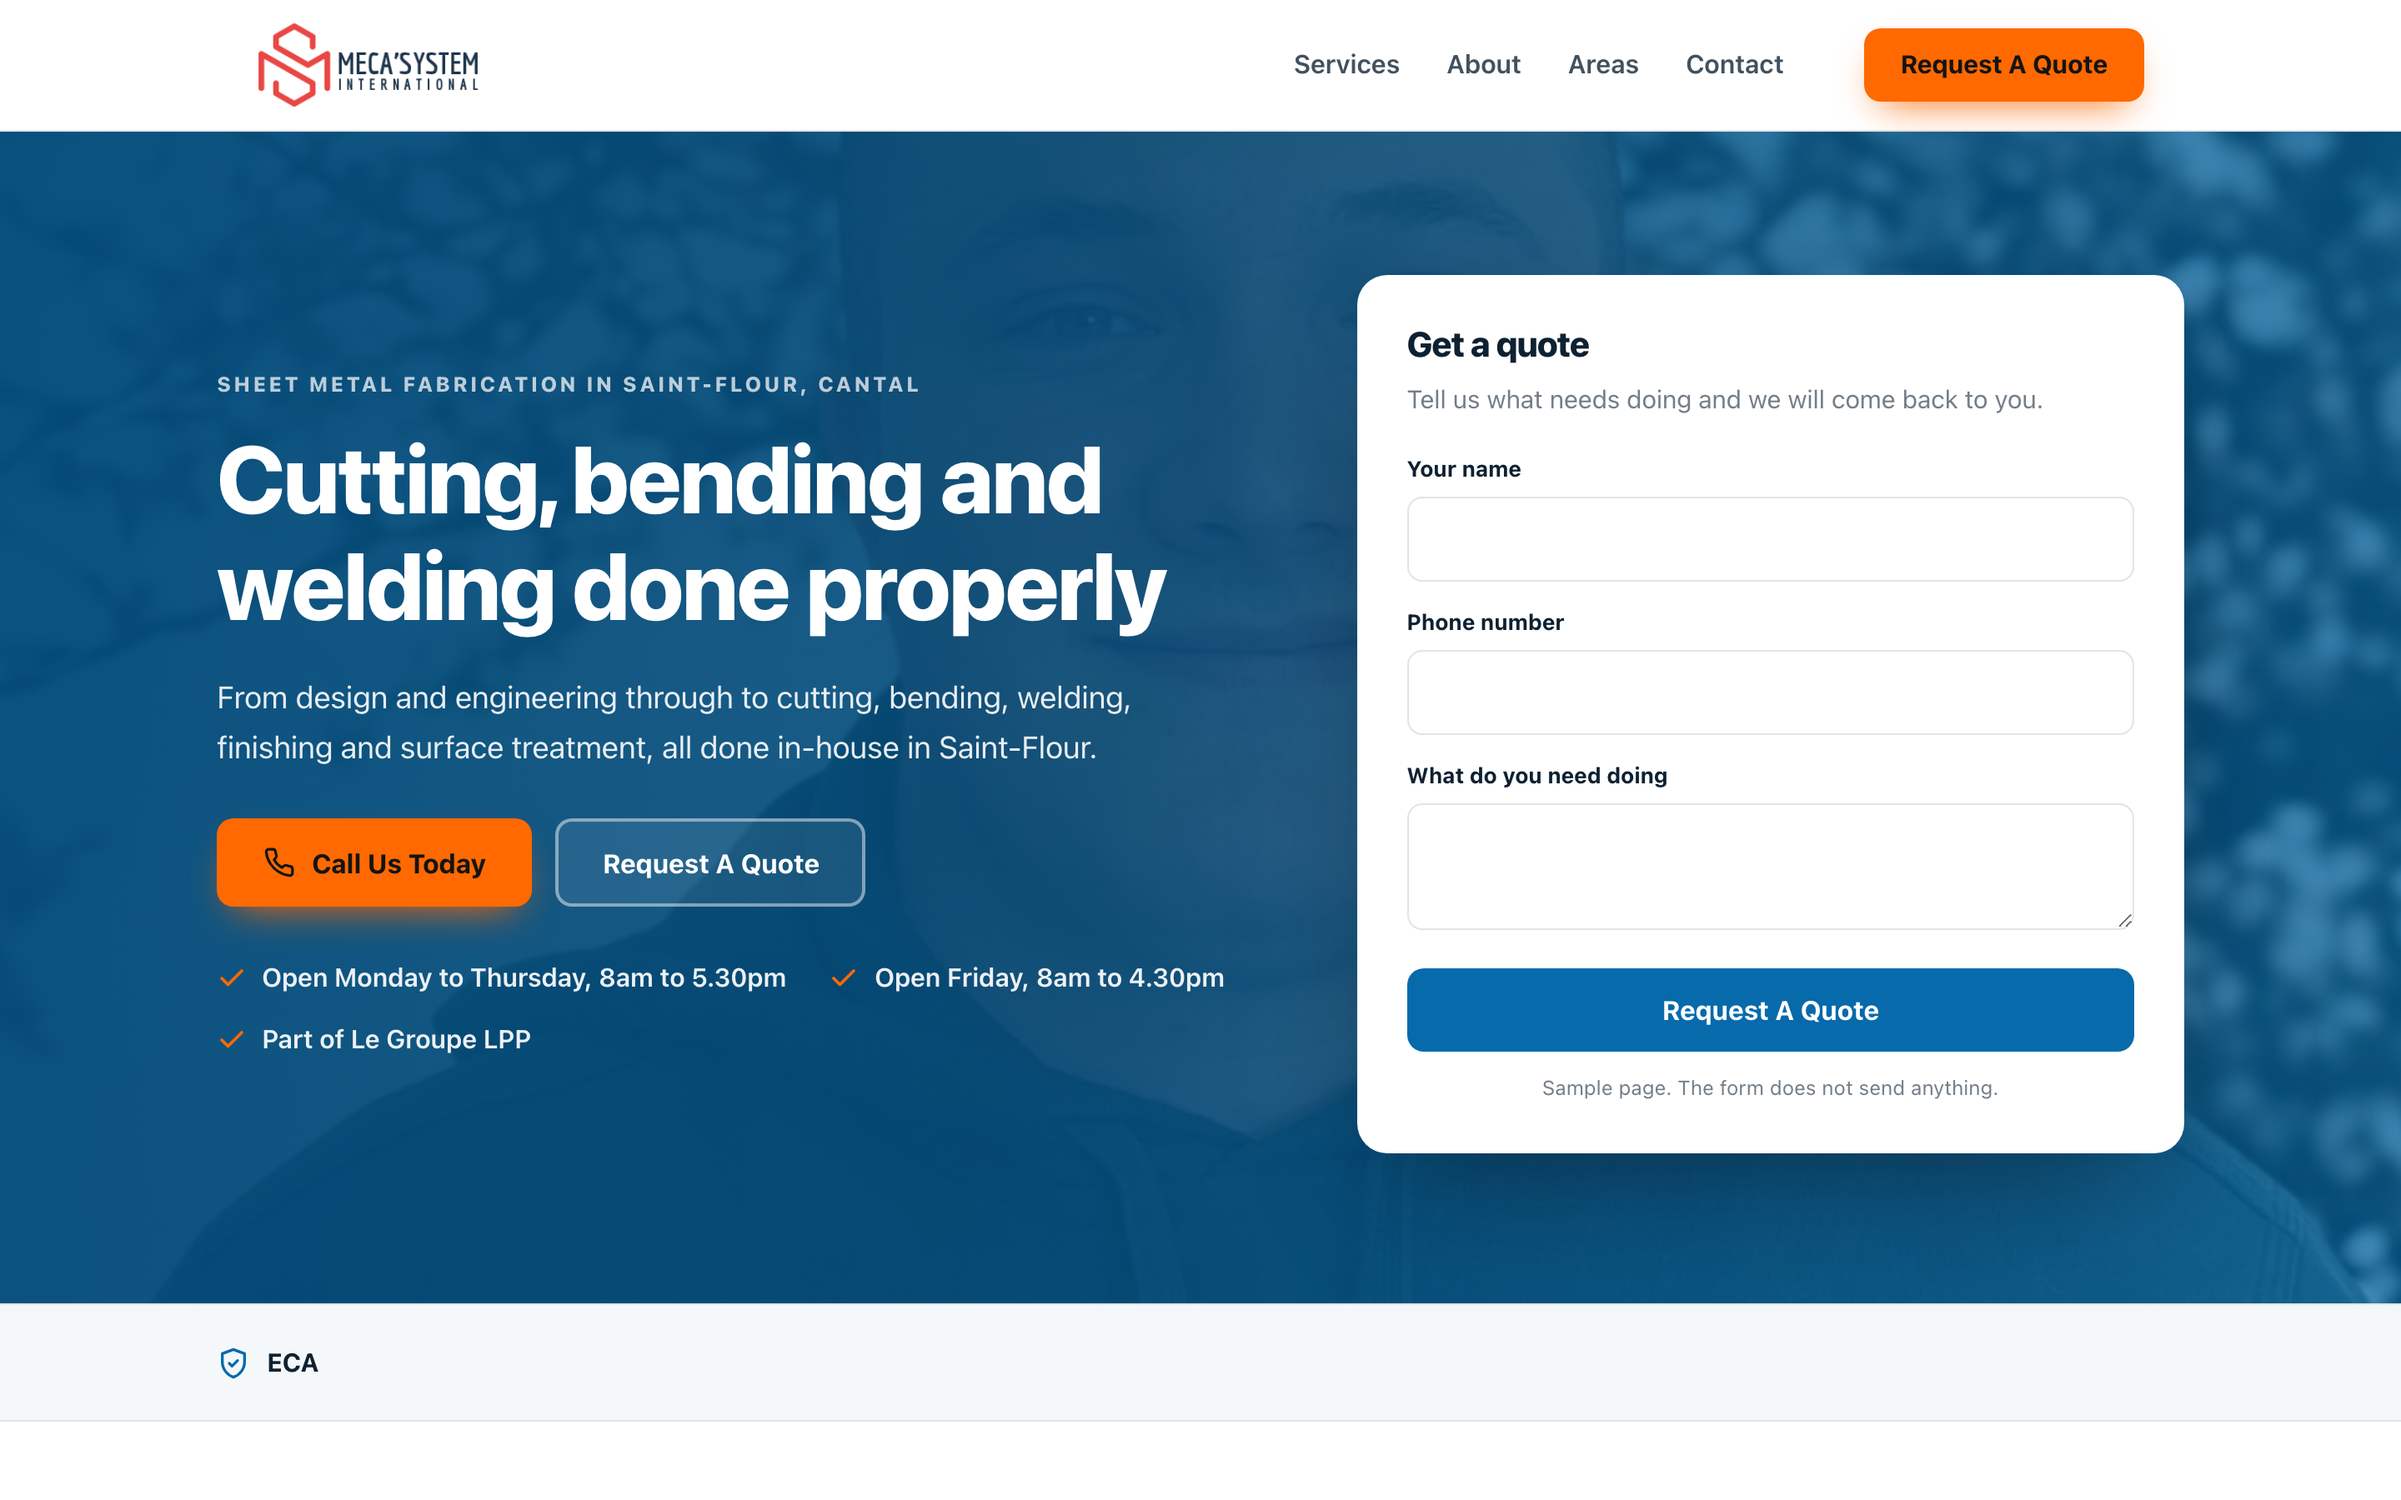
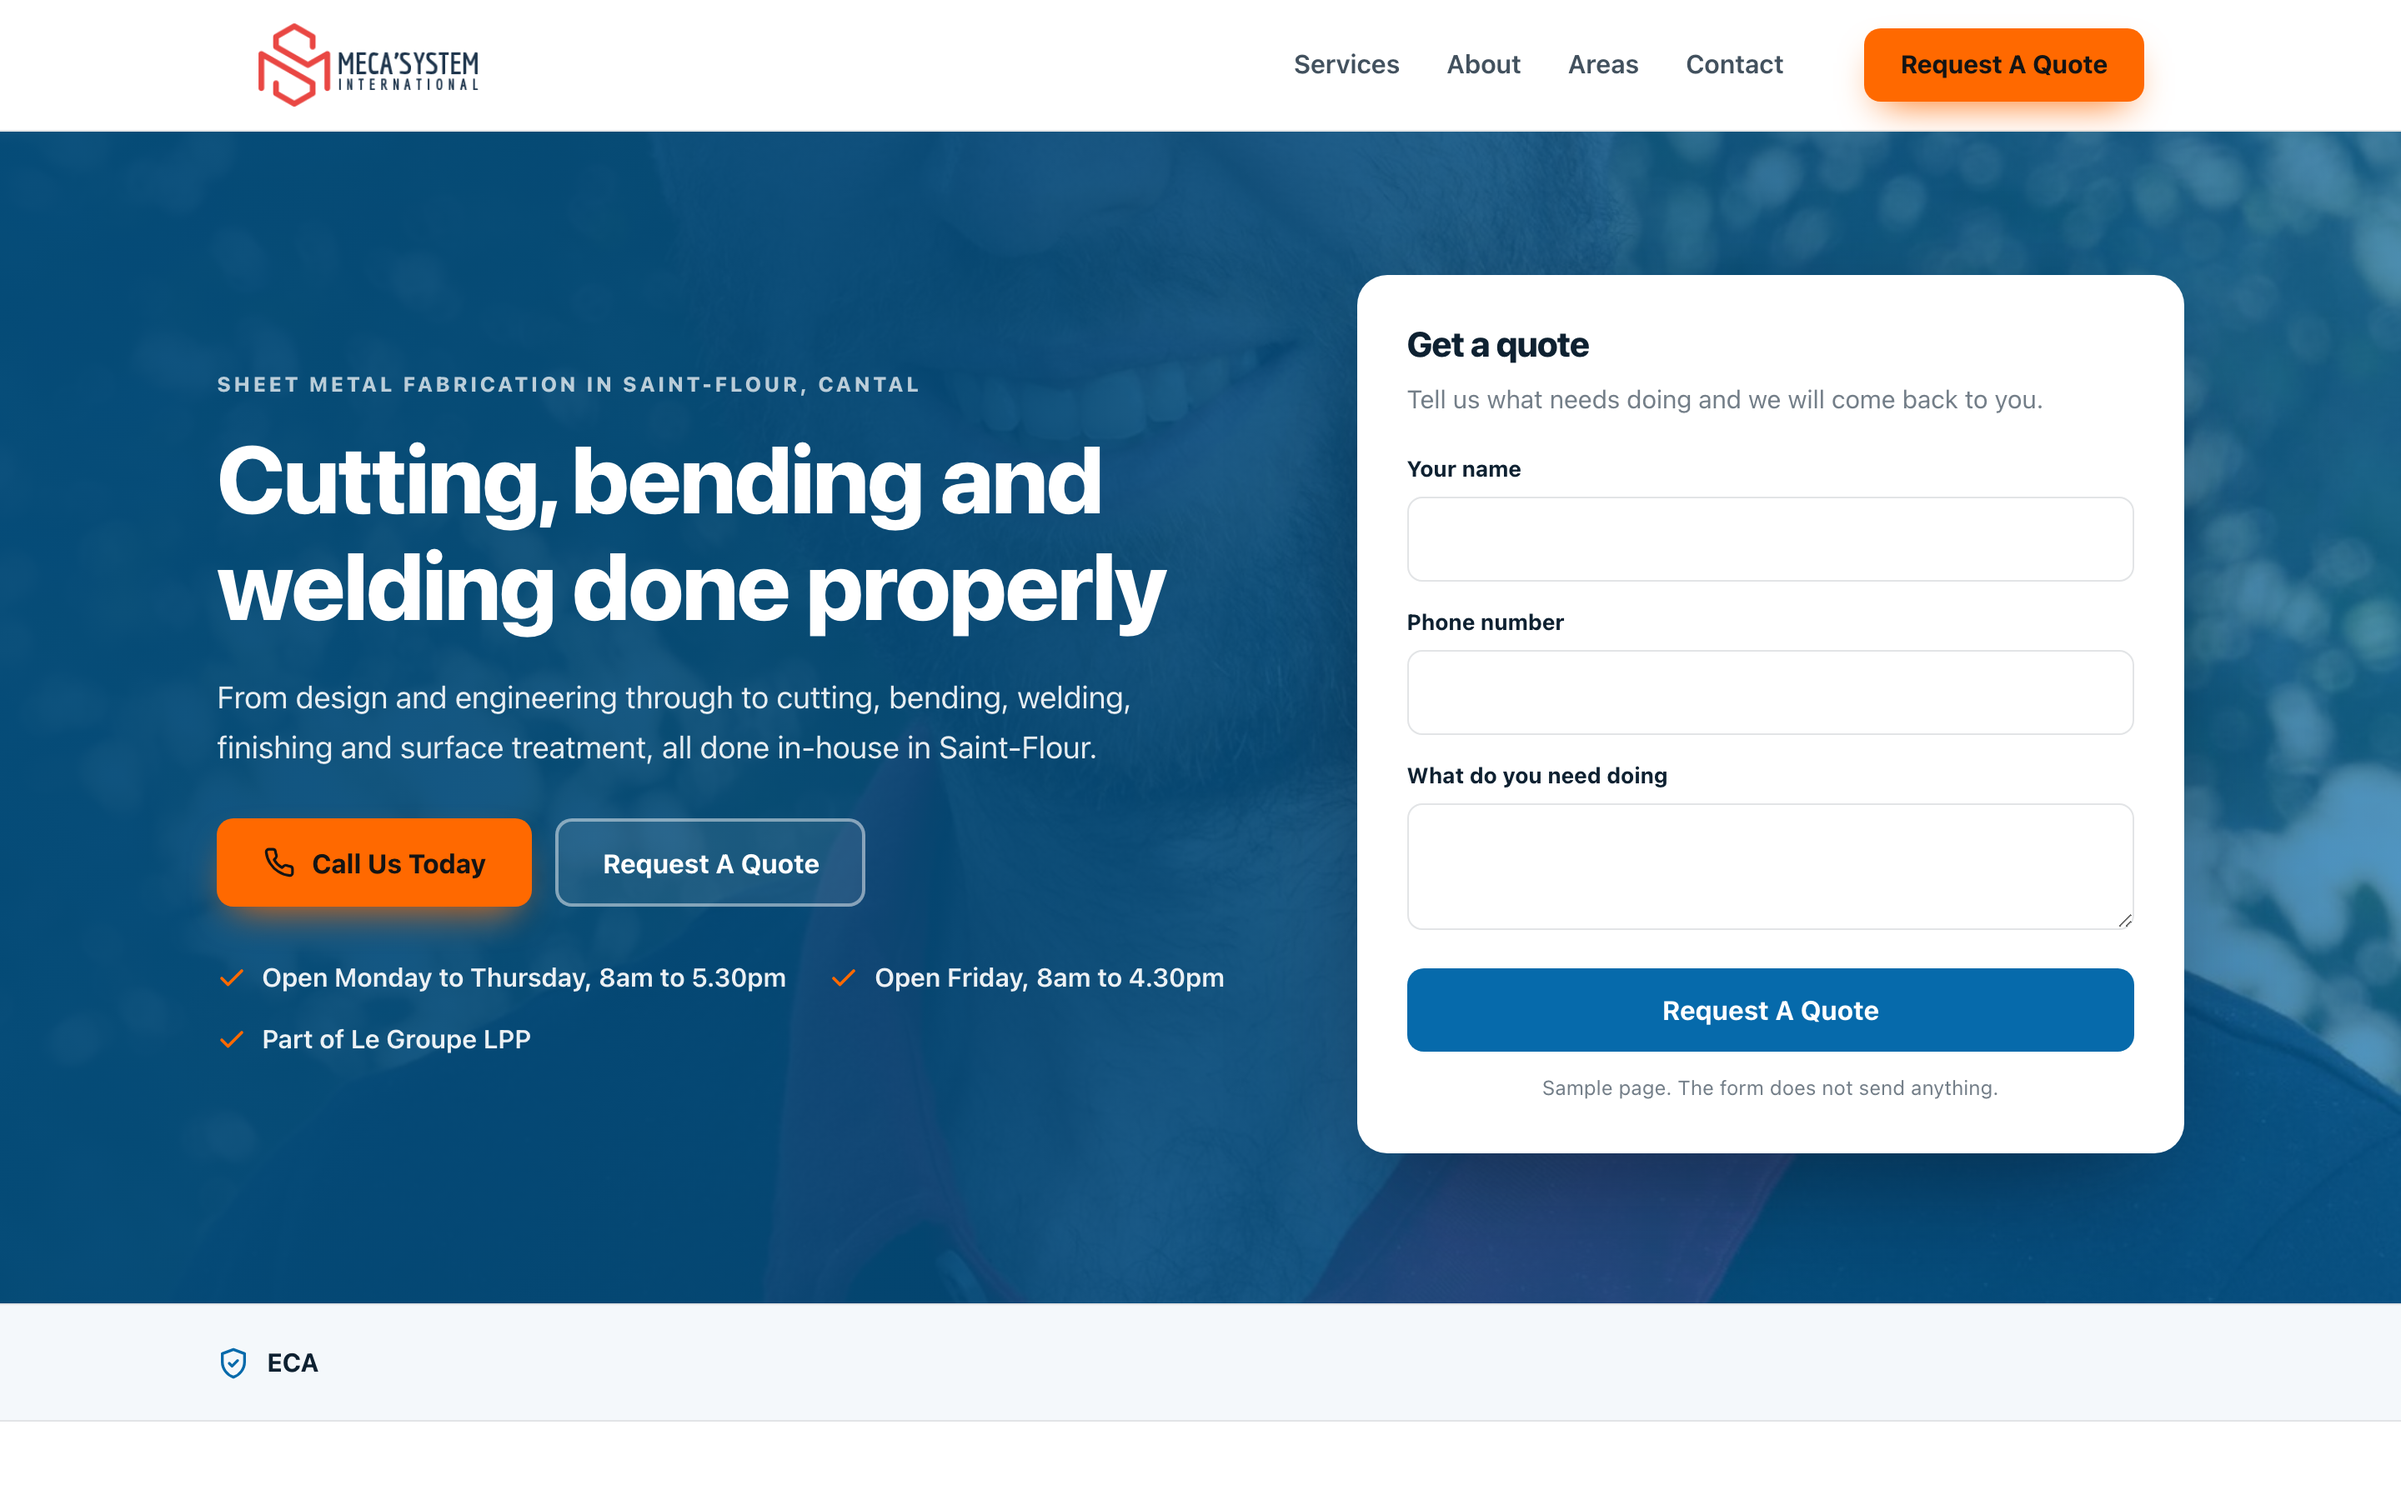
Sample homepage for Aller au contenu

diff --git a/docs/4ccb04627c/index.html b/docs/4ccb04627c/index.html
@@ -4,6 +4,7 @@
 <meta charset="utf-8">
 <meta name="viewport" content="width=device-width, initial-scale=1">
 <meta name="robots" content="noindex,nofollow">
+<meta name="aso-build" content="69ed5743227f">
 <title>Aller au contenu sample homepage</title>
 <meta name="description" content="From design and engineering through to cutting, bending, welding, finishing and surface treatment, all done in-house in Saint-Flour.">
 <link rel="canonical" href="https://markygff.github.io/aso-mockups/4ccb04627c/">
@@ -11,7 +12,7 @@
 <meta property="og:title" content="Aller au contenu sample homepage">
 <meta property="og:description" content="From design and engineering through to cutting, bending, welding, finishing and surface treatment, all done in-house in Saint-Flour.">
 <meta property="og:url" content="https://markygff.github.io/aso-mockups/4ccb04627c/">
-<meta property="og:image" content="https://mecasystem-international.fr/wp-content/uploads/bb-plugin/cache/Matteo-GRECO-scaled-portrait.jpg"><style>
+<meta property="og:image" content="img/p14.jpg"><style>
 :root{
   --primary:#066aab;
   --primary-dark:#044c7b;
@@ -27,10 +28,12 @@
 }
 *,*::before,*::after{box-sizing:border-box}
 body{margin:0;font-family:var(--font);color:var(--ink);background:#fff;font-size:17px;
-  line-height:1.62;-webkit-font-smoothing:antialiased}
+  line-height:1.62;-webkit-font-smoothing:antialiased;
+  overflow-wrap:break-word;word-wrap:break-word}
 img{max-width:100%;height:auto;display:block}
 a{text-decoration:none;color:var(--primary)}
-h1,h2,h3{margin:0;line-height:1.13;letter-spacing:-.022em;font-weight:800}
+h1,h2,h3{margin:0;line-height:1.13;letter-spacing:-.022em;font-weight:800;
+  overflow-wrap:break-word;word-wrap:break-word}
 p{margin:0}
 .wrap{width:100%;max-width:1180px;margin:0 auto;padding:0 24px}
 .eyebrow{font-size:.78rem;font-weight:800;letter-spacing:.13em;text-transform:uppercase;
@@ -52,7 +55,8 @@ p{margin:0}
 .nav{display:flex;gap:28px;margin-left:auto;font-weight:600;font-size:.97rem;color:var(--ink)}
 .nav span{opacity:.78}
 .header-cta{display:flex;align-items:center;gap:14px;margin-left:28px}
-.tel{display:flex;align-items:center;gap:9px;font-weight:800;font-size:1.1rem;color:var(--ink)}
+.tel{display:flex;align-items:center;gap:9px;font-weight:800;font-size:1.1rem;
+     color:var(--ink);text-decoration:none}
 .tel svg{width:20px;height:20px;color:var(--accent)}
 .header-cta .btn{padding:12px 20px;font-size:.95rem}
 
@@ -108,9 +112,56 @@ p{margin:0}
 .footer-in{display:flex;flex-wrap:wrap;gap:8px 20px;justify-content:space-between}
 
 @media (max-width:960px){
-  .hero-in{grid-template-columns:1fr;gap:34px}
-  .grid{grid-template-columns:1fr}
+  .hero-in{grid-template-columns:minmax(0,1fr);gap:34px}
+  .hero-in>*,.grid>*{min-width:0}
+  .grid{grid-template-columns:minmax(0,1fr)}
   .nav{display:none}
+}
+
+/* Phones. Same block as the one-pager, same reason: see the note in
+   onepager.html.j2. A teaser is the first thing a prospect ever opens and
+   they open it on a phone. */
+@media (max-width:767px){
+  body{font-size:16px}
+  .wrap{padding:0 16px}
+
+  .header-in{height:auto;min-height:60px;gap:10px;padding:8px 16px}
+  .brand{flex:1 1 auto;min-width:0;gap:9px}
+  .brand>div{min-width:0}
+  .brand img{max-height:34px}
+  .brand-name{font-size:.98rem;display:block;max-width:100%;white-space:nowrap;
+    overflow:hidden;text-overflow:ellipsis}
+  .brand-sub{display:none}
+  .header-cta{margin-left:auto;gap:8px;flex:none}
+  .header-cta .btn{display:none}
+  .tel{flex:none;width:44px;height:44px;border-radius:50%;gap:0;
+    background:var(--accent);color:var(--on-accent);justify-content:center}
+  .tel svg{width:22px;height:22px;color:var(--on-accent)}
+  .tel span{display:none}
+
+  .hero-in{gap:28px;padding:36px 16px 40px}
+  .hero h1{font-size:clamp(1.5rem,6.4vw,2.1rem);max-width:none;margin-bottom:14px}
+  .hero-sub{font-size:1rem;max-width:none;margin-bottom:22px}
+  .hero-actions{flex-direction:column;align-items:stretch;gap:10px;margin-bottom:24px}
+  .hero-bullets{gap:10px 18px}
+  .hero-bullets li{font-size:.92rem}
+
+  .btn{width:100%;justify-content:center;text-align:center;white-space:normal;
+    padding:14px 18px;font-size:.98rem;line-height:1.25}
+
+  .quote-card{padding:22px 18px;border-radius:14px}
+  .quote-card h3{font-size:1.18rem}
+
+  .strip-in{gap:12px 20px;padding:16px}
+  .strip-item{font-size:.92rem}
+
+  .services{padding:44px 0 50px}
+  .services-head{margin-bottom:26px}
+  .grid{gap:16px}
+  .card{padding:20px}
+
+  .footer{padding:24px 0}
+  .footer-in{gap:6px 14px}
 }
 </style>
 </head>
@@ -119,7 +170,7 @@ p{margin:0}
 <header class="header">
   <div class="wrap header-in">
     <div class="brand">
-<img src="https://mecasystem-international.fr/wp-content/uploads/2018/11/logo.png" alt="Aller au contenu logo">    </div>
+<img src="img/logo.png" alt="Aller au contenu logo">    </div>
     <nav class="nav">
       <span>Services</span><span>About</span><span>Areas</span><span>Contact</span>
     </nav>
@@ -130,7 +181,7 @@ p{margin:0}
 </header>
 
 <section class="hero">
-  <div class="hero-bg"><img src="https://mecasystem-international.fr/wp-content/uploads/bb-plugin/cache/Matteo-GRECO-scaled-portrait.jpg" alt="Mattéo GRECO" width="1600" height="900"></div>
+  <div class="hero-bg"><img src="img/p14.jpg" alt="MS 029" width="1600" height="900"></div>
   <div class="wrap hero-in">
     <div>
       <p class="eyebrow">Sheet metal fabrication in Saint-Flour, Cantal</p>
